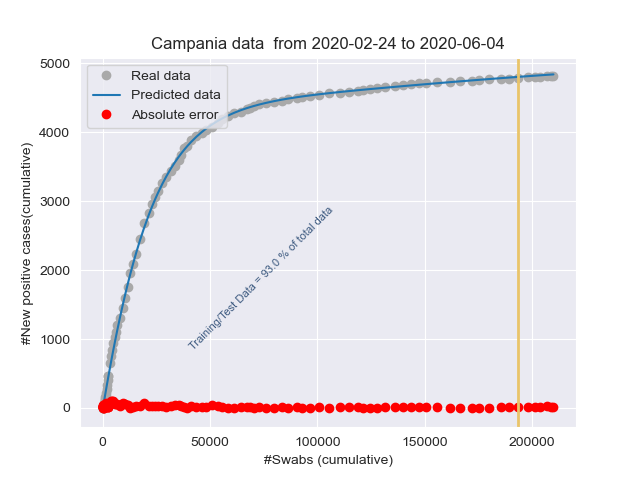
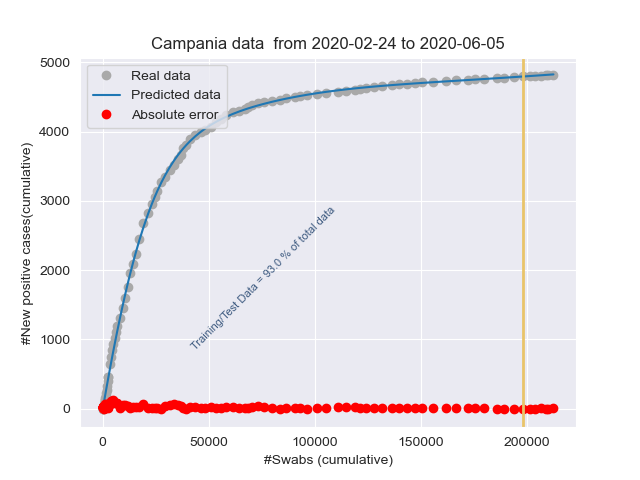
Add files via upload

diff --git a/stat_Friuli Venezia Giulia.html b/stat_Friuli Venezia Giulia.html
@@ -1,1 +1,1 @@
-<!DOCTYPE html><html lang="it"><head><title>Results</title><meta charset="utf-8"><meta name="viewport" content="width=device-width, initial-scale=1"><link rel="stylesheet" href="bootstrap.min.css"><script src="https://ajax.googleapis.com/ajax/libs/jquery/3.4.1/jquery.min.js"></script><script src="https://maxcdn.bootstrapcdn.com/bootstrap/3.4.1/js/bootstrap.min.js"></script></head><body><h3>Day: 2020-06-04</h3><p class="lead my-3">New positive cases: <b>3</b></p><p class="lead my-3">Variation of positive cases: <b>inf%</b></p><p class="lead my-3">Number of swabs: <b>692.0</b></p><p class="lead my-3">Variation of swabs: <b>0.5%</b></p><p class="lead my-3">Postive cases/Swabs: <b>0.43 %</b></p><p class="lead my-3">Number of people admitted to Intensive care: <b>2</b></p><p class="lead my-3">Number of recovered people: <b>23.0</b></p><p class="lead my-3">Number of dead people: <b>0.0</b></p><h3>Total</h3><p class="lead my-3">Population of  Friuli Venezia Giulia: <b>1215220</b> <a href="http://dati.istat.it/Index.aspx?QueryId=18548" target="_blank">ISTAT data</a></p><p class="lead my-3">Total number of positive cases from 2020-02-24 00:00:00 to 2020-06-04: <b> 3279</b></p><p class="lead my-3">Total number of swabs from 2020-02-24 00:00:00 to 2020-06-04: <b> 138942</b></p><p class="lead my-3">TotalSwabs/Population: <b> 11.43%</b></p></body></html>
+<!DOCTYPE html><html lang="it"><head><title>Results</title><meta charset="utf-8"><meta name="viewport" content="width=device-width, initial-scale=1"><link rel="stylesheet" href="bootstrap.min.css"><script src="https://ajax.googleapis.com/ajax/libs/jquery/3.4.1/jquery.min.js"></script><script src="https://maxcdn.bootstrapcdn.com/bootstrap/3.4.1/js/bootstrap.min.js"></script></head><body><h3>Day: 2020-06-05</h3><p class="lead my-3">New positive cases: <b>1</b></p><p class="lead my-3">Variation of positive cases: <b>-66.67%</b></p><p class="lead my-3">Number of swabs: <b>3304.0</b></p><p class="lead my-3">Variation of swabs: <b>2.38%</b></p><p class="lead my-3">Postive cases/Swabs: <b>0.03 %</b></p><p class="lead my-3">Number of people admitted to Intensive care: <b>2</b></p><p class="lead my-3">Number of recovered people: <b>32.0</b></p><p class="lead my-3">Number of dead people: <b>2.0</b></p><h3>Total</h3><p class="lead my-3">Population of  Friuli Venezia Giulia: <b>1215220</b> <a href="http://dati.istat.it/Index.aspx?QueryId=18548" target="_blank">ISTAT data</a></p><p class="lead my-3">Total number of positive cases from 2020-02-24 00:00:00 to 2020-06-05: <b> 3280</b></p><p class="lead my-3">Total number of swabs from 2020-02-24 00:00:00 to 2020-06-05: <b> 142246</b></p><p class="lead my-3">TotalSwabs/Population: <b> 11.71%</b></p></body></html>

diff --git a/stat_Emilia-Romagna.html b/stat_Emilia-Romagna.html
@@ -1,1 +1,1 @@
-<!DOCTYPE html><html lang="it"><head><title>Results</title><meta charset="utf-8"><meta name="viewport" content="width=device-width, initial-scale=1"><link rel="stylesheet" href="bootstrap.min.css"><script src="https://ajax.googleapis.com/ajax/libs/jquery/3.4.1/jquery.min.js"></script><script src="https://maxcdn.bootstrapcdn.com/bootstrap/3.4.1/js/bootstrap.min.js"></script></head><body><h3>Day: 2020-06-04</h3><p class="lead my-3">New positive cases: <b>18</b></p><p class="lead my-3">Variation of positive cases: <b>28.57%</b></p><p class="lead my-3">Number of swabs: <b>5080.0</b></p><p class="lead my-3">Variation of swabs: <b>1.51%</b></p><p class="lead my-3">Postive cases/Swabs: <b>0.35 %</b></p><p class="lead my-3">Number of people admitted to Intensive care: <b>49</b></p><p class="lead my-3">Number of recovered people: <b>162.0</b></p><p class="lead my-3">Number of dead people: <b>7.0</b></p><h3>Total</h3><p class="lead my-3">Population of  Emilia-Romagna: <b>4459477</b> <a href="http://dati.istat.it/Index.aspx?QueryId=18548" target="_blank">ISTAT data</a></p><p class="lead my-3">Total number of positive cases from 2020-02-24 00:00:00 to 2020-06-04: <b> 27860</b></p><p class="lead my-3">Total number of swabs from 2020-02-24 00:00:00 to 2020-06-04: <b> 341710</b></p><p class="lead my-3">TotalSwabs/Population: <b> 7.66%</b></p></body></html>
+<!DOCTYPE html><html lang="it"><head><title>Results</title><meta charset="utf-8"><meta name="viewport" content="width=device-width, initial-scale=1"><link rel="stylesheet" href="bootstrap.min.css"><script src="https://ajax.googleapis.com/ajax/libs/jquery/3.4.1/jquery.min.js"></script><script src="https://maxcdn.bootstrapcdn.com/bootstrap/3.4.1/js/bootstrap.min.js"></script></head><body><h3>Day: 2020-06-05</h3><p class="lead my-3">New positive cases: <b>17</b></p><p class="lead my-3">Variation of positive cases: <b>-5.56%</b></p><p class="lead my-3">Number of swabs: <b>5436.0</b></p><p class="lead my-3">Variation of swabs: <b>1.59%</b></p><p class="lead my-3">Postive cases/Swabs: <b>0.31 %</b></p><p class="lead my-3">Number of people admitted to Intensive care: <b>38</b></p><p class="lead my-3">Number of recovered people: <b>180.0</b></p><p class="lead my-3">Number of dead people: <b>13.0</b></p><h3>Total</h3><p class="lead my-3">Population of  Emilia-Romagna: <b>4459477</b> <a href="http://dati.istat.it/Index.aspx?QueryId=18548" target="_blank">ISTAT data</a></p><p class="lead my-3">Total number of positive cases from 2020-02-24 00:00:00 to 2020-06-05: <b> 27877</b></p><p class="lead my-3">Total number of swabs from 2020-02-24 00:00:00 to 2020-06-05: <b> 347146</b></p><p class="lead my-3">TotalSwabs/Population: <b> 7.78%</b></p></body></html>

diff --git a/stat_Lombardia.html b/stat_Lombardia.html
@@ -1,1 +1,1 @@
-<!DOCTYPE html><html lang="it"><head><title>Results</title><meta charset="utf-8"><meta name="viewport" content="width=device-width, initial-scale=1"><link rel="stylesheet" href="bootstrap.min.css"><script src="https://ajax.googleapis.com/ajax/libs/jquery/3.4.1/jquery.min.js"></script><script src="https://maxcdn.bootstrapcdn.com/bootstrap/3.4.1/js/bootstrap.min.js"></script></head><body><h3>Day: 2020-06-04</h3><p class="lead my-3">New positive cases: <b>84</b></p><p class="lead my-3">Variation of positive cases: <b>-64.56%</b></p><p class="lead my-3">Number of swabs: <b>3410.0</b></p><p class="lead my-3">Variation of swabs: <b>0.44%</b></p><p class="lead my-3">Postive cases/Swabs: <b>2.46 %</b></p><p class="lead my-3">Number of people admitted to Intensive care: <b>125</b></p><p class="lead my-3">Number of recovered people: <b>55.0</b></p><p class="lead my-3">Number of dead people: <b>29.0</b></p><h3>Total</h3><p class="lead my-3">Population of  Lombardia: <b>10060574</b> <a href="http://dati.istat.it/Index.aspx?QueryId=18548" target="_blank">ISTAT data</a></p><p class="lead my-3">Total number of positive cases from 2020-02-24 00:00:00 to 2020-06-04: <b> 89520</b></p><p class="lead my-3">Total number of swabs from 2020-02-24 00:00:00 to 2020-06-04: <b> 780887</b></p><p class="lead my-3">TotalSwabs/Population: <b> 7.76%</b></p></body></html>
+<!DOCTYPE html><html lang="it"><head><title>Results</title><meta charset="utf-8"><meta name="viewport" content="width=device-width, initial-scale=1"><link rel="stylesheet" href="bootstrap.min.css"><script src="https://ajax.googleapis.com/ajax/libs/jquery/3.4.1/jquery.min.js"></script><script src="https://maxcdn.bootstrapcdn.com/bootstrap/3.4.1/js/bootstrap.min.js"></script></head><body><h3>Day: 2020-06-05</h3><p class="lead my-3">New positive cases: <b>402</b></p><p class="lead my-3">Variation of positive cases: <b>378.57%</b></p><p class="lead my-3">Number of swabs: <b>19389.0</b></p><p class="lead my-3">Variation of swabs: <b>2.48%</b></p><p class="lead my-3">Postive cases/Swabs: <b>2.07 %</b></p><p class="lead my-3">Number of people admitted to Intensive care: <b>120</b></p><p class="lead my-3">Number of recovered people: <b>752.0</b></p><p class="lead my-3">Number of dead people: <b>21.0</b></p><h3>Total</h3><p class="lead my-3">Population of  Lombardia: <b>10060574</b> <a href="http://dati.istat.it/Index.aspx?QueryId=18548" target="_blank">ISTAT data</a></p><p class="lead my-3">Total number of positive cases from 2020-02-24 00:00:00 to 2020-06-05: <b> 89922</b></p><p class="lead my-3">Total number of swabs from 2020-02-24 00:00:00 to 2020-06-05: <b> 800276</b></p><p class="lead my-3">TotalSwabs/Population: <b> 7.95%</b></p></body></html>

diff --git a/stat_Italy.html b/stat_Italy.html
@@ -1,1 +1,1 @@
-<!DOCTYPE html><html lang="it"><head><title>Results</title><meta charset="utf-8"><meta name="viewport" content="width=device-width, initial-scale=1"><link rel="stylesheet" href="bootstrap.min.css"><script src="https://ajax.googleapis.com/ajax/libs/jquery/3.4.1/jquery.min.js"></script><script src="https://maxcdn.bootstrapcdn.com/bootstrap/3.4.1/js/bootstrap.min.js"></script></head><body><h3>Day: 2020-06-04</h3><p class="lead my-3">New positive cases: <b>177</b></p><p class="lead my-3">Variation of positive cases: <b>-44.86%</b></p><p class="lead my-3">Number of swabs: <b>49953.0</b></p><p class="lead my-3">Variation of swabs: <b>1.25%</b></p><p class="lead my-3">Postive cases/Swabs: <b>0.35 %</b></p><p class="lead my-3">Number of people admitted to Intensive care: <b>338</b></p><p class="lead my-3">Number of recovered people: <b>957.0</b></p><p class="lead my-3">Number of dead people: <b>88.0</b></p><h3>Total</h3><p class="lead my-3">Population of  Italy: <b>60359546</b> <a href="http://dati.istat.it/Index.aspx?QueryId=18548" target="_blank">ISTAT data</a></p><p class="lead my-3">Total number of positive cases from 2020-02-24 00:00:00 to 2020-06-04: <b> 234005</b></p><p class="lead my-3">Total number of swabs from 2020-02-24 00:00:00 to 2020-06-04: <b> 4049544</b></p><p class="lead my-3">TotalSwabs/Population: <b> 6.71%</b></p></body></html>
+<!DOCTYPE html><html lang="it"><head><title>Results</title><meta charset="utf-8"><meta name="viewport" content="width=device-width, initial-scale=1"><link rel="stylesheet" href="bootstrap.min.css"><script src="https://ajax.googleapis.com/ajax/libs/jquery/3.4.1/jquery.min.js"></script><script src="https://maxcdn.bootstrapcdn.com/bootstrap/3.4.1/js/bootstrap.min.js"></script></head><body><h3>Day: 2020-06-05</h3><p class="lead my-3">New positive cases: <b>518</b></p><p class="lead my-3">Variation of positive cases: <b>192.66%</b></p><p class="lead my-3">Number of swabs: <b>65028.0</b></p><p class="lead my-3">Variation of swabs: <b>1.61%</b></p><p class="lead my-3">Postive cases/Swabs: <b>0.8 %</b></p><p class="lead my-3">Number of people admitted to Intensive care: <b>316</b></p><p class="lead my-3">Number of recovered people: <b>1886.0</b></p><p class="lead my-3">Number of dead people: <b>85.0</b></p><h3>Total</h3><p class="lead my-3">Population of  Italy: <b>60359546</b> <a href="http://dati.istat.it/Index.aspx?QueryId=18548" target="_blank">ISTAT data</a></p><p class="lead my-3">Total number of positive cases from 2020-02-24 00:00:00 to 2020-06-05: <b> 234523</b></p><p class="lead my-3">Total number of swabs from 2020-02-24 00:00:00 to 2020-06-05: <b> 4114572</b></p><p class="lead my-3">TotalSwabs/Population: <b> 6.82%</b></p></body></html>

diff --git a/stat_Piemonte.html b/stat_Piemonte.html
@@ -1,1 +1,1 @@
-<!DOCTYPE html><html lang="it"><head><title>Results</title><meta charset="utf-8"><meta name="viewport" content="width=device-width, initial-scale=1"><link rel="stylesheet" href="bootstrap.min.css"><script src="https://ajax.googleapis.com/ajax/libs/jquery/3.4.1/jquery.min.js"></script><script src="https://maxcdn.bootstrapcdn.com/bootstrap/3.4.1/js/bootstrap.min.js"></script></head><body><h3>Day: 2020-06-04</h3><p class="lead my-3">New positive cases: <b>24</b></p><p class="lead my-3">Variation of positive cases: <b>26.32%</b></p><p class="lead my-3">Number of swabs: <b>4035.0</b></p><p class="lead my-3">Variation of swabs: <b>1.23%</b></p><p class="lead my-3">Postive cases/Swabs: <b>0.59 %</b></p><p class="lead my-3">Number of people admitted to Intensive care: <b>43</b></p><p class="lead my-3">Number of recovered people: <b>142.0</b></p><p class="lead my-3">Number of dead people: <b>12.0</b></p><h3>Total</h3><p class="lead my-3">Population of  Piemonte: <b>4356406</b> <a href="http://dati.istat.it/Index.aspx?QueryId=18548" target="_blank">ISTAT data</a></p><p class="lead my-3">Total number of positive cases from 2020-02-24 00:00:00 to 2020-06-04: <b> 30758</b></p><p class="lead my-3">Total number of swabs from 2020-02-24 00:00:00 to 2020-06-04: <b> 331241</b></p><p class="lead my-3">TotalSwabs/Population: <b> 7.6%</b></p></body></html>
+<!DOCTYPE html><html lang="it"><head><title>Results</title><meta charset="utf-8"><meta name="viewport" content="width=device-width, initial-scale=1"><link rel="stylesheet" href="bootstrap.min.css"><script src="https://ajax.googleapis.com/ajax/libs/jquery/3.4.1/jquery.min.js"></script><script src="https://maxcdn.bootstrapcdn.com/bootstrap/3.4.1/js/bootstrap.min.js"></script></head><body><h3>Day: 2020-06-05</h3><p class="lead my-3">New positive cases: <b>49</b></p><p class="lead my-3">Variation of positive cases: <b>104.17%</b></p><p class="lead my-3">Number of swabs: <b>4573.0</b></p><p class="lead my-3">Variation of swabs: <b>1.38%</b></p><p class="lead my-3">Postive cases/Swabs: <b>1.07 %</b></p><p class="lead my-3">Number of people admitted to Intensive care: <b>40</b></p><p class="lead my-3">Number of recovered people: <b>219.0</b></p><p class="lead my-3">Number of dead people: <b>17.0</b></p><h3>Total</h3><p class="lead my-3">Population of  Piemonte: <b>4356406</b> <a href="http://dati.istat.it/Index.aspx?QueryId=18548" target="_blank">ISTAT data</a></p><p class="lead my-3">Total number of positive cases from 2020-02-24 00:00:00 to 2020-06-05: <b> 30807</b></p><p class="lead my-3">Total number of swabs from 2020-02-24 00:00:00 to 2020-06-05: <b> 335814</b></p><p class="lead my-3">TotalSwabs/Population: <b> 7.71%</b></p></body></html>

diff --git a/stat_Toscana.html b/stat_Toscana.html
@@ -1,1 +1,1 @@
-<!DOCTYPE html><html lang="it"><head><title>Results</title><meta charset="utf-8"><meta name="viewport" content="width=device-width, initial-scale=1"><link rel="stylesheet" href="bootstrap.min.css"><script src="https://ajax.googleapis.com/ajax/libs/jquery/3.4.1/jquery.min.js"></script><script src="https://maxcdn.bootstrapcdn.com/bootstrap/3.4.1/js/bootstrap.min.js"></script></head><body><h3>Day: 2020-06-04</h3><p class="lead my-3">New positive cases: <b>1</b></p><p class="lead my-3">Variation of positive cases: <b>-75.0%</b></p><p class="lead my-3">Number of swabs: <b>3595.0</b></p><p class="lead my-3">Variation of swabs: <b>1.39%</b></p><p class="lead my-3">Postive cases/Swabs: <b>0.03 %</b></p><p class="lead my-3">Number of people admitted to Intensive care: <b>24</b></p><p class="lead my-3">Number of recovered people: <b>87.0</b></p><p class="lead my-3">Number of dead people: <b>4.0</b></p><h3>Total</h3><p class="lead my-3">Population of  Toscana: <b>3729641</b> <a href="http://dati.istat.it/Index.aspx?QueryId=18548" target="_blank">ISTAT data</a></p><p class="lead my-3">Total number of positive cases from 2020-02-24 00:00:00 to 2020-06-04: <b> 10122</b></p><p class="lead my-3">Total number of swabs from 2020-02-24 00:00:00 to 2020-06-04: <b> 262762</b></p><p class="lead my-3">TotalSwabs/Population: <b> 7.05%</b></p></body></html>
+<!DOCTYPE html><html lang="it"><head><title>Results</title><meta charset="utf-8"><meta name="viewport" content="width=device-width, initial-scale=1"><link rel="stylesheet" href="bootstrap.min.css"><script src="https://ajax.googleapis.com/ajax/libs/jquery/3.4.1/jquery.min.js"></script><script src="https://maxcdn.bootstrapcdn.com/bootstrap/3.4.1/js/bootstrap.min.js"></script></head><body><h3>Day: 2020-06-05</h3><p class="lead my-3">New positive cases: <b>7</b></p><p class="lead my-3">Variation of positive cases: <b>600.0%</b></p><p class="lead my-3">Number of swabs: <b>3746.0</b></p><p class="lead my-3">Variation of swabs: <b>1.43%</b></p><p class="lead my-3">Postive cases/Swabs: <b>0.19 %</b></p><p class="lead my-3">Number of people admitted to Intensive care: <b>23</b></p><p class="lead my-3">Number of recovered people: <b>29.0</b></p><p class="lead my-3">Number of dead people: <b>4.0</b></p><h3>Total</h3><p class="lead my-3">Population of  Toscana: <b>3729641</b> <a href="http://dati.istat.it/Index.aspx?QueryId=18548" target="_blank">ISTAT data</a></p><p class="lead my-3">Total number of positive cases from 2020-02-24 00:00:00 to 2020-06-05: <b> 10129</b></p><p class="lead my-3">Total number of swabs from 2020-02-24 00:00:00 to 2020-06-05: <b> 266508</b></p><p class="lead my-3">TotalSwabs/Population: <b> 7.15%</b></p></body></html>

diff --git a/stat_Campania.html b/stat_Campania.html
@@ -1,1 +1,1 @@
-<!DOCTYPE html><html lang="it"><head><title>Results</title><meta charset="utf-8"><meta name="viewport" content="width=device-width, initial-scale=1"><link rel="stylesheet" href="bootstrap.min.css"><script src="https://ajax.googleapis.com/ajax/libs/jquery/3.4.1/jquery.min.js"></script><script src="https://maxcdn.bootstrapcdn.com/bootstrap/3.4.1/js/bootstrap.min.js"></script></head><body><h3>Day: 2020-06-04</h3><p class="lead my-3">New positive cases: <b>1</b></p><p class="lead my-3">Variation of positive cases: <b>-91.67%</b></p><p class="lead my-3">Number of swabs: <b>1147.0</b></p><p class="lead my-3">Variation of swabs: <b>0.55%</b></p><p class="lead my-3">Postive cases/Swabs: <b>0.09 %</b></p><p class="lead my-3">Number of people admitted to Intensive care: <b>5</b></p><p class="lead my-3">Number of recovered people: <b>35.0</b></p><p class="lead my-3">Number of dead people: <b>5.0</b></p><h3>Total</h3><p class="lead my-3">Population of  Campania: <b>5801692</b> <a href="http://dati.istat.it/Index.aspx?QueryId=18548" target="_blank">ISTAT data</a></p><p class="lead my-3">Total number of positive cases from 2020-02-24 00:00:00 to 2020-06-04: <b> 4822</b></p><p class="lead my-3">Total number of swabs from 2020-02-24 00:00:00 to 2020-06-04: <b> 210001</b></p><p class="lead my-3">TotalSwabs/Population: <b> 3.62%</b></p></body></html>
+<!DOCTYPE html><html lang="it"><head><title>Results</title><meta charset="utf-8"><meta name="viewport" content="width=device-width, initial-scale=1"><link rel="stylesheet" href="bootstrap.min.css"><script src="https://ajax.googleapis.com/ajax/libs/jquery/3.4.1/jquery.min.js"></script><script src="https://maxcdn.bootstrapcdn.com/bootstrap/3.4.1/js/bootstrap.min.js"></script></head><body><h3>Day: 2020-06-05</h3><p class="lead my-3">New positive cases: <b>0</b></p><p class="lead my-3">Variation of positive cases: <b>-100.0%</b></p><p class="lead my-3">Number of swabs: <b>2485.0</b></p><p class="lead my-3">Variation of swabs: <b>1.18%</b></p><p class="lead my-3">Postive cases/Swabs: <b>0.0 %</b></p><p class="lead my-3">Number of people admitted to Intensive care: <b>7</b></p><p class="lead my-3">Number of recovered people: <b>51.0</b></p><p class="lead my-3">Number of dead people: <b>5.0</b></p><h3>Total</h3><p class="lead my-3">Population of  Campania: <b>5801692</b> <a href="http://dati.istat.it/Index.aspx?QueryId=18548" target="_blank">ISTAT data</a></p><p class="lead my-3">Total number of positive cases from 2020-02-24 00:00:00 to 2020-06-05: <b> 4822</b></p><p class="lead my-3">Total number of swabs from 2020-02-24 00:00:00 to 2020-06-05: <b> 212486</b></p><p class="lead my-3">TotalSwabs/Population: <b> 3.66%</b></p></body></html>

diff --git a/stat_Liguria.html b/stat_Liguria.html
@@ -1,1 +1,1 @@
-<!DOCTYPE html><html lang="it"><head><title>Results</title><meta charset="utf-8"><meta name="viewport" content="width=device-width, initial-scale=1"><link rel="stylesheet" href="bootstrap.min.css"><script src="https://ajax.googleapis.com/ajax/libs/jquery/3.4.1/jquery.min.js"></script><script src="https://maxcdn.bootstrapcdn.com/bootstrap/3.4.1/js/bootstrap.min.js"></script></head><body><h3>Day: 2020-06-04</h3><p class="lead my-3">New positive cases: <b>21</b></p><p class="lead my-3">Variation of positive cases: <b>23.53%</b></p><p class="lead my-3">Number of swabs: <b>1581.0</b></p><p class="lead my-3">Variation of swabs: <b>1.44%</b></p><p class="lead my-3">Postive cases/Swabs: <b>1.33 %</b></p><p class="lead my-3">Number of people admitted to Intensive care: <b>6</b></p><p class="lead my-3">Number of recovered people: <b>135.0</b></p><p class="lead my-3">Number of dead people: <b>6.0</b></p><h3>Total</h3><p class="lead my-3">Population of  Liguria: <b>1550640</b> <a href="http://dati.istat.it/Index.aspx?QueryId=18548" target="_blank">ISTAT data</a></p><p class="lead my-3">Total number of positive cases from 2020-02-24 00:00:00 to 2020-06-04: <b> 9772</b></p><p class="lead my-3">Total number of swabs from 2020-02-24 00:00:00 to 2020-06-04: <b> 111587</b></p><p class="lead my-3">TotalSwabs/Population: <b> 7.2%</b></p></body></html>
+<!DOCTYPE html><html lang="it"><head><title>Results</title><meta charset="utf-8"><meta name="viewport" content="width=device-width, initial-scale=1"><link rel="stylesheet" href="bootstrap.min.css"><script src="https://ajax.googleapis.com/ajax/libs/jquery/3.4.1/jquery.min.js"></script><script src="https://maxcdn.bootstrapcdn.com/bootstrap/3.4.1/js/bootstrap.min.js"></script></head><body><h3>Day: 2020-06-05</h3><p class="lead my-3">New positive cases: <b>14</b></p><p class="lead my-3">Variation of positive cases: <b>-33.33%</b></p><p class="lead my-3">Number of swabs: <b>1742.0</b></p><p class="lead my-3">Variation of swabs: <b>1.56%</b></p><p class="lead my-3">Postive cases/Swabs: <b>0.8 %</b></p><p class="lead my-3">Number of people admitted to Intensive care: <b>6</b></p><p class="lead my-3">Number of recovered people: <b>157.0</b></p><p class="lead my-3">Number of dead people: <b>7.0</b></p><h3>Total</h3><p class="lead my-3">Population of  Liguria: <b>1550640</b> <a href="http://dati.istat.it/Index.aspx?QueryId=18548" target="_blank">ISTAT data</a></p><p class="lead my-3">Total number of positive cases from 2020-02-24 00:00:00 to 2020-06-05: <b> 9786</b></p><p class="lead my-3">Total number of swabs from 2020-02-24 00:00:00 to 2020-06-05: <b> 113329</b></p><p class="lead my-3">TotalSwabs/Population: <b> 7.31%</b></p></body></html>

diff --git a/stat_Veneto.html b/stat_Veneto.html
@@ -1,1 +1,1 @@
-<!DOCTYPE html><html lang="it"><head><title>Results</title><meta charset="utf-8"><meta name="viewport" content="width=device-width, initial-scale=1"><link rel="stylesheet" href="bootstrap.min.css"><script src="https://ajax.googleapis.com/ajax/libs/jquery/3.4.1/jquery.min.js"></script><script src="https://maxcdn.bootstrapcdn.com/bootstrap/3.4.1/js/bootstrap.min.js"></script></head><body><h3>Day: 2020-06-04</h3><p class="lead my-3">New positive cases: <b>4</b></p><p class="lead my-3">Variation of positive cases: <b>100.0%</b></p><p class="lead my-3">Number of swabs: <b>11422.0</b></p><p class="lead my-3">Variation of swabs: <b>1.64%</b></p><p class="lead my-3">Postive cases/Swabs: <b>0.04 %</b></p><p class="lead my-3">Number of people admitted to Intensive care: <b>2</b></p><p class="lead my-3">Number of recovered people: <b>59.0</b></p><p class="lead my-3">Number of dead people: <b>13.0</b></p><h3>Total</h3><p class="lead my-3">Population of  Veneto: <b>4905854</b> <a href="http://dati.istat.it/Index.aspx?QueryId=18548" target="_blank">ISTAT data</a></p><p class="lead my-3">Total number of positive cases from 2020-02-24 00:00:00 to 2020-06-04: <b> 19167</b></p><p class="lead my-3">Total number of swabs from 2020-02-24 00:00:00 to 2020-06-04: <b> 706475</b></p><p class="lead my-3">TotalSwabs/Population: <b> 14.4%</b></p></body></html>
+<!DOCTYPE html><html lang="it"><head><title>Results</title><meta charset="utf-8"><meta name="viewport" content="width=device-width, initial-scale=1"><link rel="stylesheet" href="bootstrap.min.css"><script src="https://ajax.googleapis.com/ajax/libs/jquery/3.4.1/jquery.min.js"></script><script src="https://maxcdn.bootstrapcdn.com/bootstrap/3.4.1/js/bootstrap.min.js"></script></head><body><h3>Day: 2020-06-05</h3><p class="lead my-3">New positive cases: <b>6</b></p><p class="lead my-3">Variation of positive cases: <b>50.0%</b></p><p class="lead my-3">Number of swabs: <b>7025.0</b></p><p class="lead my-3">Variation of swabs: <b>0.99%</b></p><p class="lead my-3">Postive cases/Swabs: <b>0.09 %</b></p><p class="lead my-3">Number of people admitted to Intensive care: <b>2</b></p><p class="lead my-3">Number of recovered people: <b>92.0</b></p><p class="lead my-3">Number of dead people: <b>4.0</b></p><h3>Total</h3><p class="lead my-3">Population of  Veneto: <b>4905854</b> <a href="http://dati.istat.it/Index.aspx?QueryId=18548" target="_blank">ISTAT data</a></p><p class="lead my-3">Total number of positive cases from 2020-02-24 00:00:00 to 2020-06-05: <b> 19173</b></p><p class="lead my-3">Total number of swabs from 2020-02-24 00:00:00 to 2020-06-05: <b> 713500</b></p><p class="lead my-3">TotalSwabs/Population: <b> 14.54%</b></p></body></html>

diff --git a/stat_P.A. Trento.html b/stat_P.A. Trento.html
@@ -1,1 +1,1 @@
-<!DOCTYPE html><html lang="it"><head><title>Results</title><meta charset="utf-8"><meta name="viewport" content="width=device-width, initial-scale=1"><link rel="stylesheet" href="bootstrap.min.css"><script src="https://ajax.googleapis.com/ajax/libs/jquery/3.4.1/jquery.min.js"></script><script src="https://maxcdn.bootstrapcdn.com/bootstrap/3.4.1/js/bootstrap.min.js"></script></head><body><h3>Day: 2020-06-04</h3><p class="lead my-3">New positive cases: <b>0</b></p><p class="lead my-3">Variation of positive cases: <b>-100.0%</b></p><p class="lead my-3">Number of swabs: <b>610.0</b></p><p class="lead my-3">Variation of swabs: <b>0.67%</b></p><p class="lead my-3">Postive cases/Swabs: <b>0.0 %</b></p><p class="lead my-3">Number of people admitted to Intensive care: <b>1</b></p><p class="lead my-3">Number of recovered people: <b>14.0</b></p><p class="lead my-3">Number of dead people: <b>1.0</b></p><h3>Total</h3><p class="lead my-3">Population of  P.A. Trento: <b>541098</b> <a href="http://dati.istat.it/Index.aspx?QueryId=18548" target="_blank">ISTAT data</a></p><p class="lead my-3">Total number of positive cases from 2020-02-24 00:00:00 to 2020-06-04: <b> 4433</b></p><p class="lead my-3">Total number of swabs from 2020-02-24 00:00:00 to 2020-06-04: <b> 91631</b></p><p class="lead my-3">TotalSwabs/Population: <b> 16.93%</b></p></body></html>
+<!DOCTYPE html><html lang="it"><head><title>Results</title><meta charset="utf-8"><meta name="viewport" content="width=device-width, initial-scale=1"><link rel="stylesheet" href="bootstrap.min.css"><script src="https://ajax.googleapis.com/ajax/libs/jquery/3.4.1/jquery.min.js"></script><script src="https://maxcdn.bootstrapcdn.com/bootstrap/3.4.1/js/bootstrap.min.js"></script></head><body><h3>Day: 2020-06-05</h3><p class="lead my-3">New positive cases: <b>0</b></p><p class="lead my-3">Variation of positive cases: <b>0.0%</b></p><p class="lead my-3">Number of swabs: <b>1285.0</b></p><p class="lead my-3">Variation of swabs: <b>1.4%</b></p><p class="lead my-3">Postive cases/Swabs: <b>0.0 %</b></p><p class="lead my-3">Number of people admitted to Intensive care: <b>1</b></p><p class="lead my-3">Number of recovered people: <b>84.0</b></p><p class="lead my-3">Number of dead people: <b>0.0</b></p><h3>Total</h3><p class="lead my-3">Population of  P.A. Trento: <b>541098</b> <a href="http://dati.istat.it/Index.aspx?QueryId=18548" target="_blank">ISTAT data</a></p><p class="lead my-3">Total number of positive cases from 2020-02-24 00:00:00 to 2020-06-05: <b> 4433</b></p><p class="lead my-3">Total number of swabs from 2020-02-24 00:00:00 to 2020-06-05: <b> 92916</b></p><p class="lead my-3">TotalSwabs/Population: <b> 17.17%</b></p></body></html>

diff --git a/stat_Lazio.html b/stat_Lazio.html
@@ -1,1 +1,1 @@
-<!DOCTYPE html><html lang="it"><head><title>Results</title><meta charset="utf-8"><meta name="viewport" content="width=device-width, initial-scale=1"><link rel="stylesheet" href="bootstrap.min.css"><script src="https://ajax.googleapis.com/ajax/libs/jquery/3.4.1/jquery.min.js"></script><script src="https://maxcdn.bootstrapcdn.com/bootstrap/3.4.1/js/bootstrap.min.js"></script></head><body><h3>Day: 2020-06-04</h3><p class="lead my-3">New positive cases: <b>11</b></p><p class="lead my-3">Variation of positive cases: <b>10.0%</b></p><p class="lead my-3">Number of swabs: <b>2919.0</b></p><p class="lead my-3">Variation of swabs: <b>1.11%</b></p><p class="lead my-3">Postive cases/Swabs: <b>0.38 %</b></p><p class="lead my-3">Number of people admitted to Intensive care: <b>51</b></p><p class="lead my-3">Number of recovered people: <b>72.0</b></p><p class="lead my-3">Number of dead people: <b>3.0</b></p><h3>Total</h3><p class="lead my-3">Population of  Lazio: <b>5879082</b> <a href="http://dati.istat.it/Index.aspx?QueryId=18548" target="_blank">ISTAT data</a></p><p class="lead my-3">Total number of positive cases from 2020-02-24 00:00:00 to 2020-06-04: <b> 7763</b></p><p class="lead my-3">Total number of swabs from 2020-02-24 00:00:00 to 2020-06-04: <b> 265380</b></p><p class="lead my-3">TotalSwabs/Population: <b> 4.51%</b></p></body></html>
+<!DOCTYPE html><html lang="it"><head><title>Results</title><meta charset="utf-8"><meta name="viewport" content="width=device-width, initial-scale=1"><link rel="stylesheet" href="bootstrap.min.css"><script src="https://ajax.googleapis.com/ajax/libs/jquery/3.4.1/jquery.min.js"></script><script src="https://maxcdn.bootstrapcdn.com/bootstrap/3.4.1/js/bootstrap.min.js"></script></head><body><h3>Day: 2020-06-05</h3><p class="lead my-3">New positive cases: <b>9</b></p><p class="lead my-3">Variation of positive cases: <b>-18.18%</b></p><p class="lead my-3">Number of swabs: <b>3181.0</b></p><p class="lead my-3">Variation of swabs: <b>1.2%</b></p><p class="lead my-3">Postive cases/Swabs: <b>0.28 %</b></p><p class="lead my-3">Number of people admitted to Intensive care: <b>51</b></p><p class="lead my-3">Number of recovered people: <b>49.0</b></p><p class="lead my-3">Number of dead people: <b>4.0</b></p><h3>Total</h3><p class="lead my-3">Population of  Lazio: <b>5879082</b> <a href="http://dati.istat.it/Index.aspx?QueryId=18548" target="_blank">ISTAT data</a></p><p class="lead my-3">Total number of positive cases from 2020-02-24 00:00:00 to 2020-06-05: <b> 7772</b></p><p class="lead my-3">Total number of swabs from 2020-02-24 00:00:00 to 2020-06-05: <b> 268561</b></p><p class="lead my-3">TotalSwabs/Population: <b> 4.57%</b></p></body></html>

diff --git a/stat_Marche.html b/stat_Marche.html
@@ -1,1 +1,1 @@
-<!DOCTYPE html><html lang="it"><head><title>Results</title><meta charset="utf-8"><meta name="viewport" content="width=device-width, initial-scale=1"><link rel="stylesheet" href="bootstrap.min.css"><script src="https://ajax.googleapis.com/ajax/libs/jquery/3.4.1/jquery.min.js"></script><script src="https://maxcdn.bootstrapcdn.com/bootstrap/3.4.1/js/bootstrap.min.js"></script></head><body><h3>Day: 2020-06-04</h3><p class="lead my-3">New positive cases: <b>3</b></p><p class="lead my-3">Variation of positive cases: <b>200.0%</b></p><p class="lead my-3">Number of swabs: <b>4398.0</b></p><p class="lead my-3">Variation of swabs: <b>4.16%</b></p><p class="lead my-3">Postive cases/Swabs: <b>0.07 %</b></p><p class="lead my-3">Number of people admitted to Intensive care: <b>5</b></p><p class="lead my-3">Number of recovered people: <b>9.0</b></p><p class="lead my-3">Number of dead people: <b>1.0</b></p><h3>Total</h3><p class="lead my-3">Population of  Marche: <b>1525271</b> <a href="http://dati.istat.it/Index.aspx?QueryId=18548" target="_blank">ISTAT data</a></p><p class="lead my-3">Total number of positive cases from 2020-02-24 00:00:00 to 2020-06-04: <b> 6738</b></p><p class="lead my-3">Total number of swabs from 2020-02-24 00:00:00 to 2020-06-04: <b> 110077</b></p><p class="lead my-3">TotalSwabs/Population: <b> 7.22%</b></p></body></html>
+<!DOCTYPE html><html lang="it"><head><title>Results</title><meta charset="utf-8"><meta name="viewport" content="width=device-width, initial-scale=1"><link rel="stylesheet" href="bootstrap.min.css"><script src="https://ajax.googleapis.com/ajax/libs/jquery/3.4.1/jquery.min.js"></script><script src="https://maxcdn.bootstrapcdn.com/bootstrap/3.4.1/js/bootstrap.min.js"></script></head><body><h3>Day: 2020-06-05</h3><p class="lead my-3">New positive cases: <b>2</b></p><p class="lead my-3">Variation of positive cases: <b>-33.33%</b></p><p class="lead my-3">Number of swabs: <b>1354.0</b></p><p class="lead my-3">Variation of swabs: <b>1.23%</b></p><p class="lead my-3">Postive cases/Swabs: <b>0.15 %</b></p><p class="lead my-3">Number of people admitted to Intensive care: <b>5</b></p><p class="lead my-3">Number of recovered people: <b>11.0</b></p><p class="lead my-3">Number of dead people: <b>1.0</b></p><h3>Total</h3><p class="lead my-3">Population of  Marche: <b>1525271</b> <a href="http://dati.istat.it/Index.aspx?QueryId=18548" target="_blank">ISTAT data</a></p><p class="lead my-3">Total number of positive cases from 2020-02-24 00:00:00 to 2020-06-05: <b> 6740</b></p><p class="lead my-3">Total number of swabs from 2020-02-24 00:00:00 to 2020-06-05: <b> 111431</b></p><p class="lead my-3">TotalSwabs/Population: <b> 7.31%</b></p></body></html>
